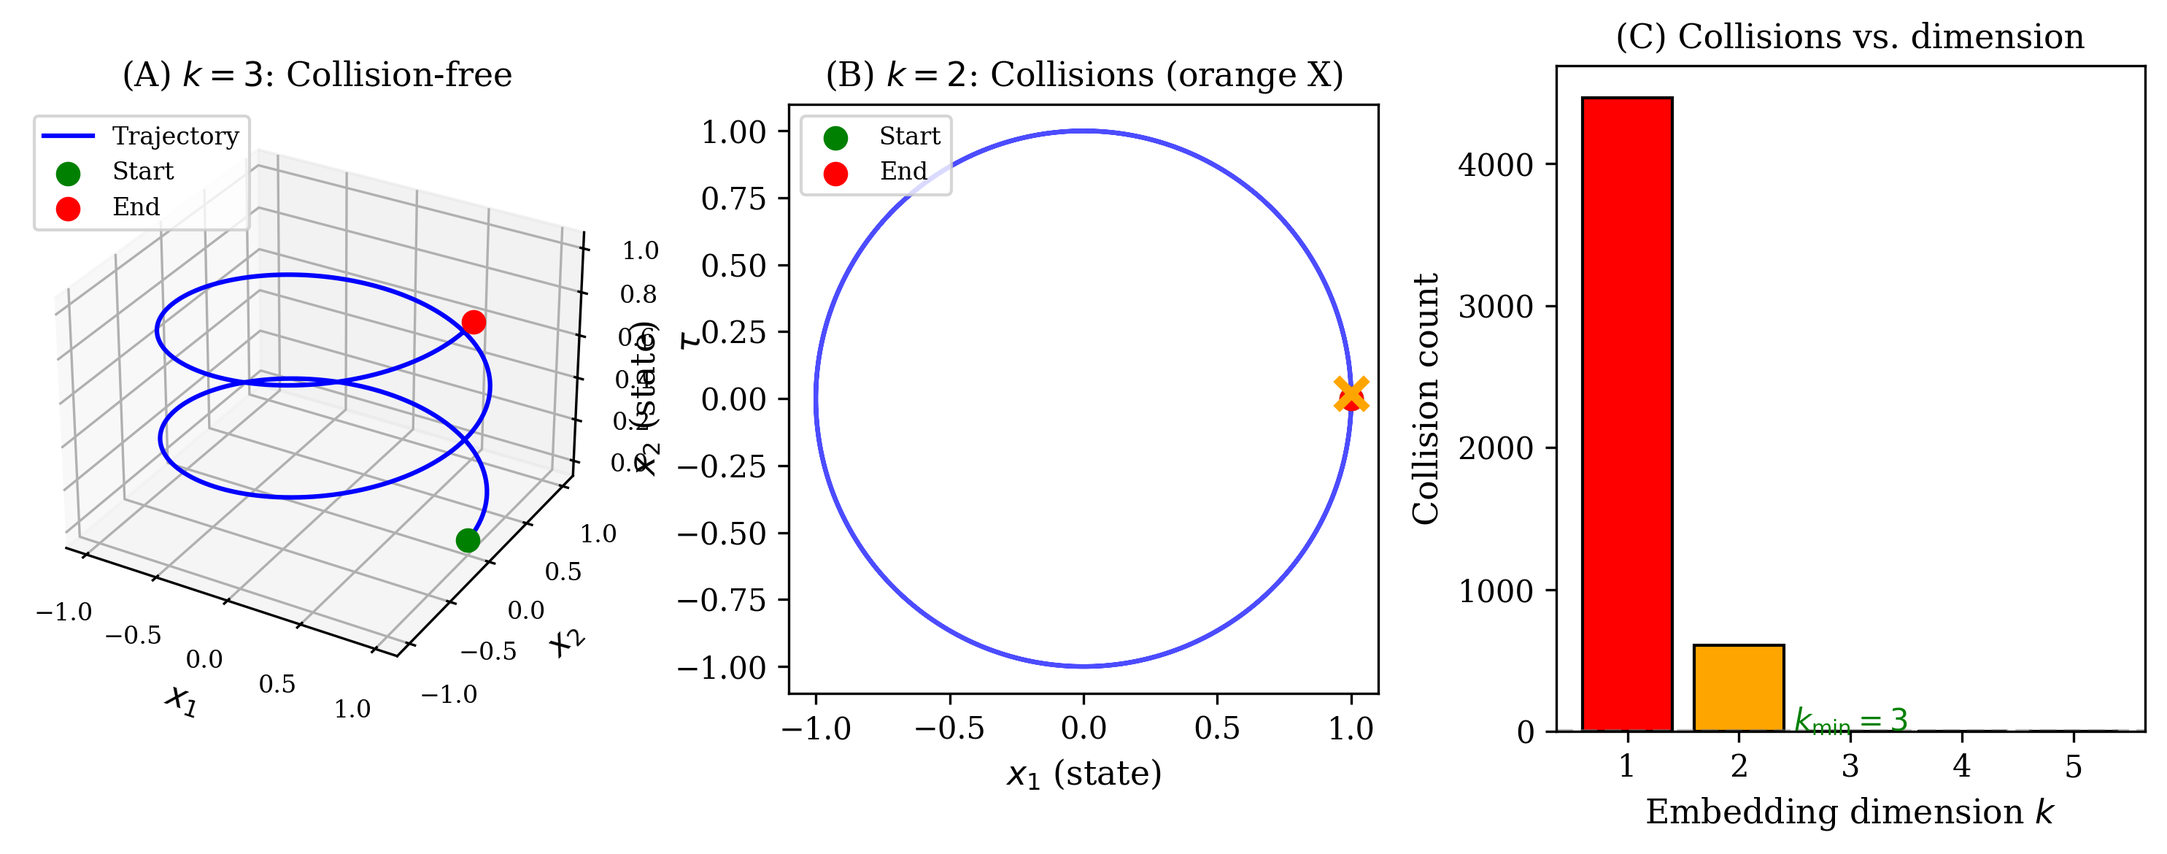
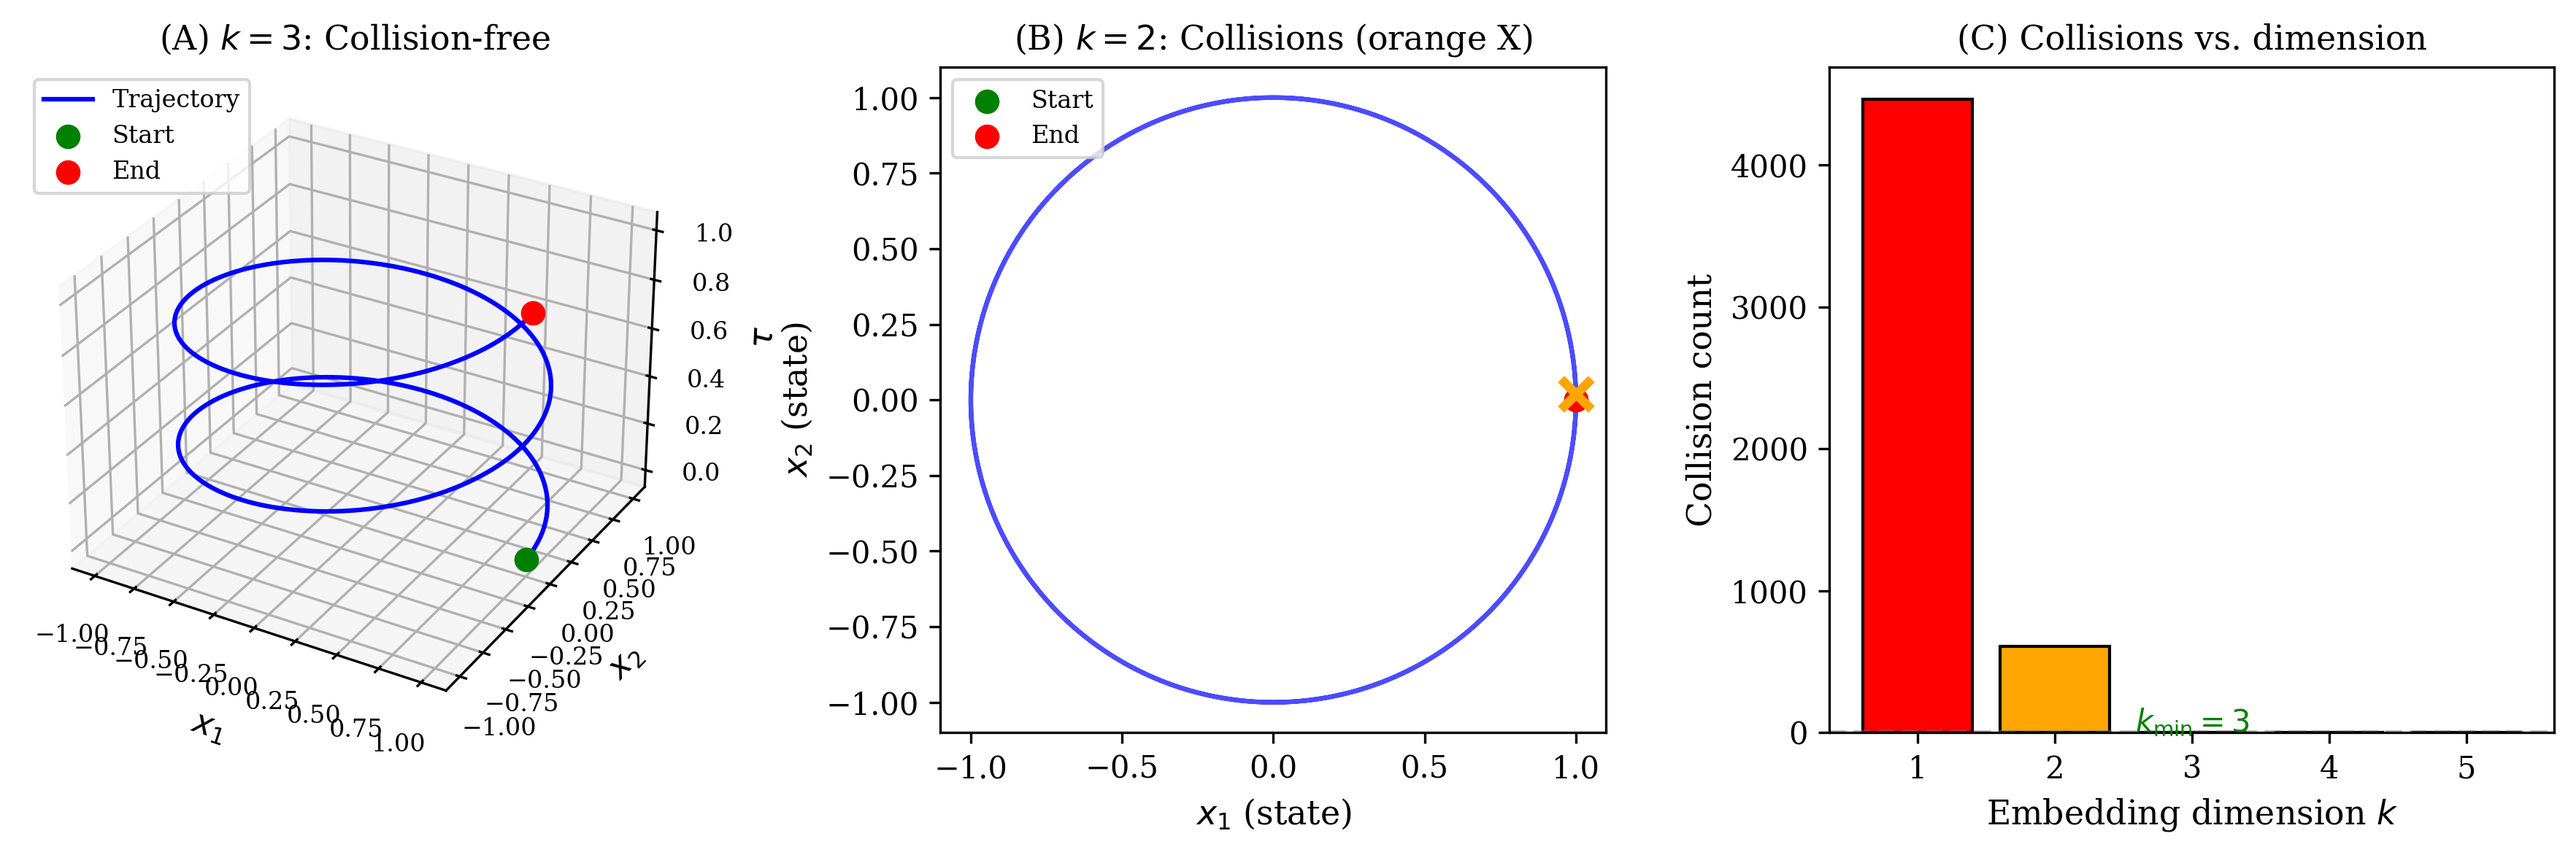
Fix Figure 1 panel spacing - eliminate y-axis label overlap

diff --git a/generate_figures.py b/generate_figures.py
@@ -60,7 +60,8 @@ def figure1_helix_vs_circle():
     """
     t, x, y, z = generate_helix(n_points=300, n_cycles=2)
 
-    fig = plt.figure(figsize=(10, 4))
+    fig = plt.figure(figsize=(12, 4))
+    plt.subplots_adjust(wspace=0.35)  # More space between panels
 
     # Panel A: 3D helix (collision-free)
     ax1 = fig.add_subplot(131, projection='3d')
